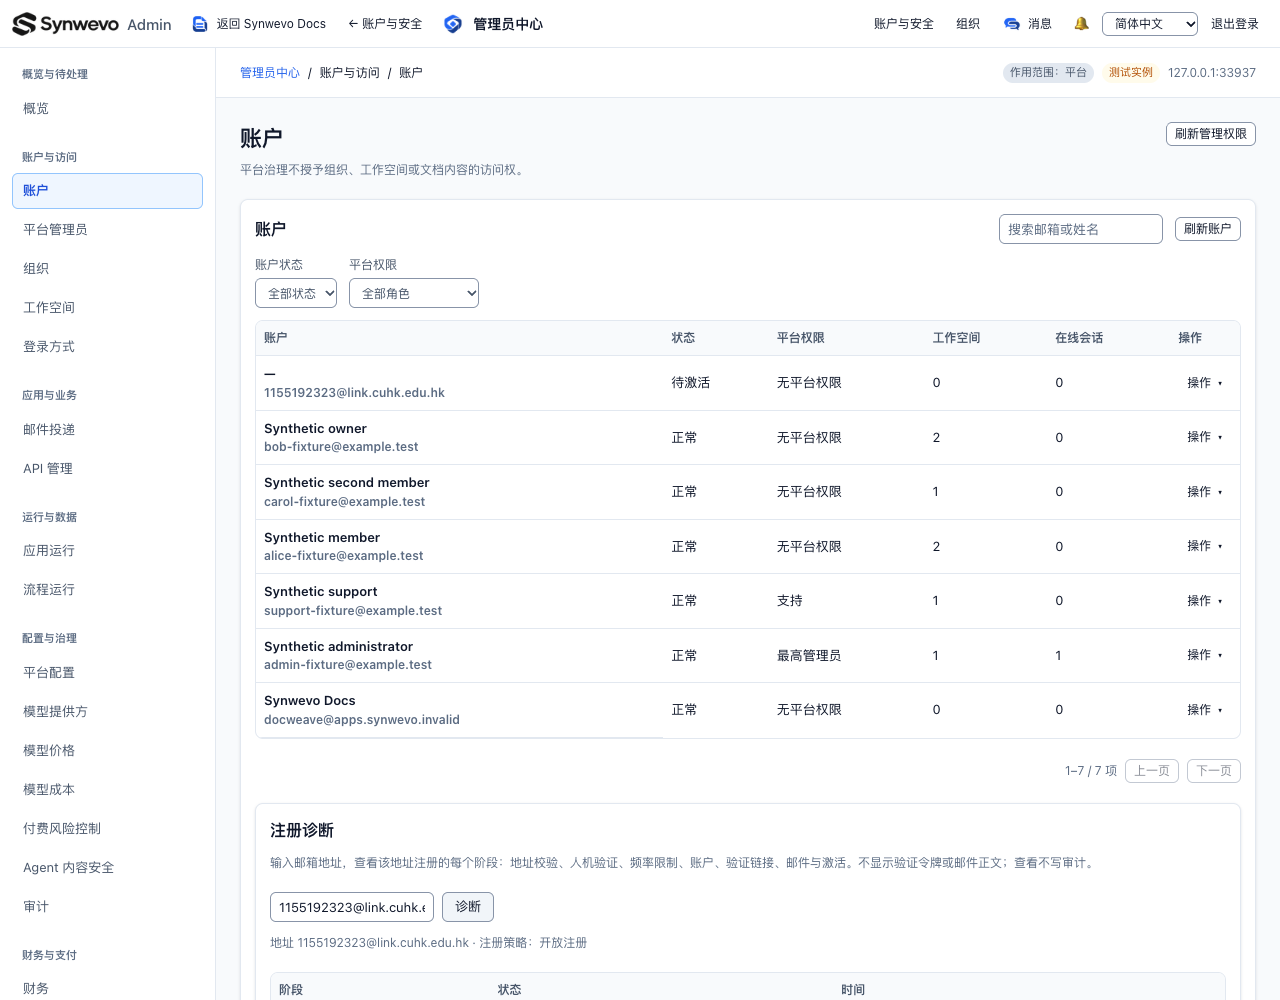
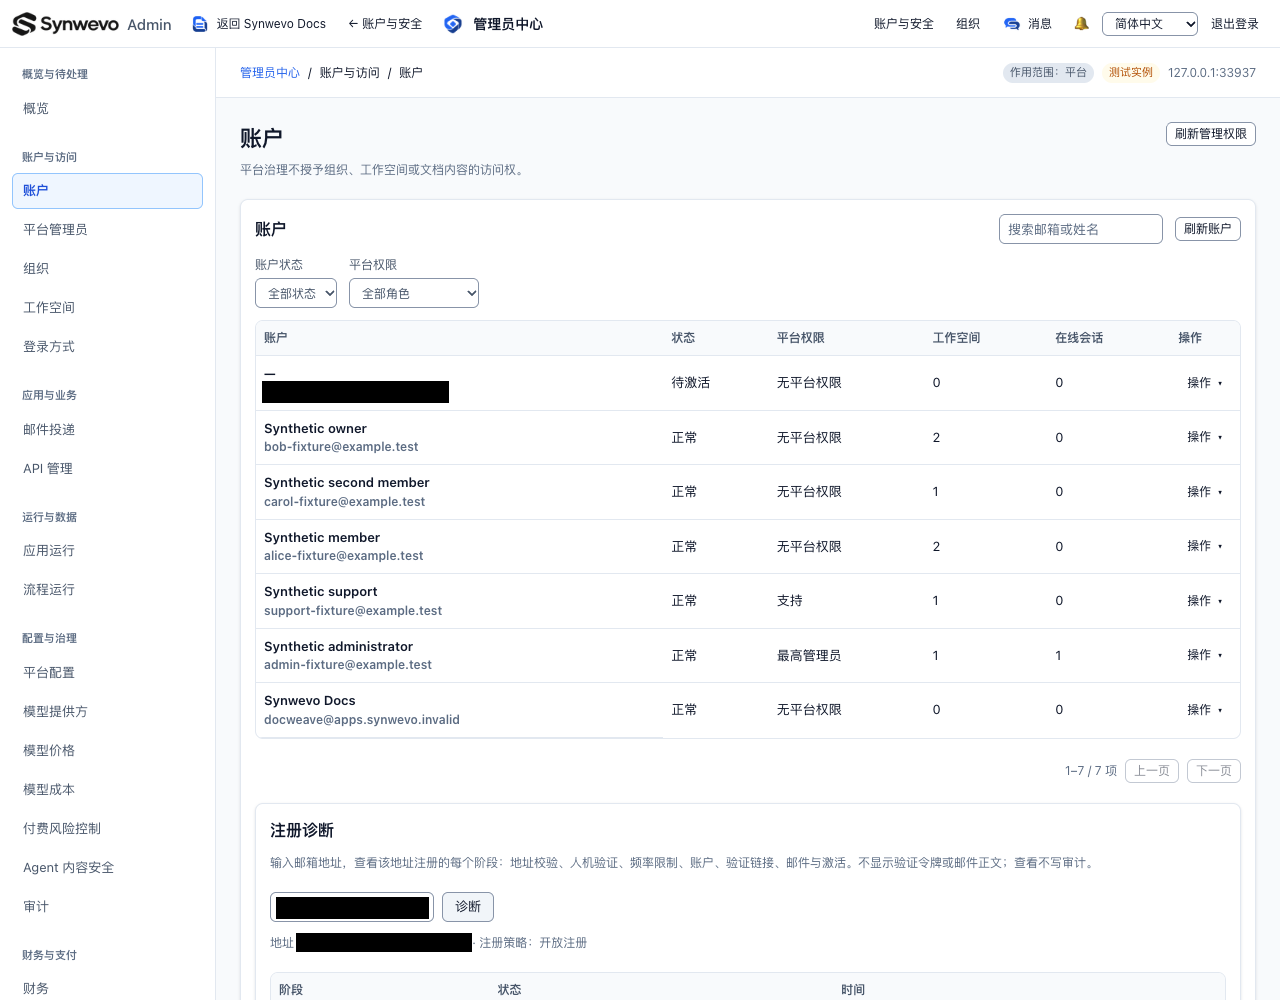
docs(evidence): paint over the institutional-format address in the A27 screenshots
The four registration-diagnostics screenshots showed a randomly generated
address in a real university's student-ID format; such a number can still
belong to a real student. Its three occurrences per image (the account row,
the diagnosis input, the diagnosis result line) are covered by opaque boxes;
nothing else in the images changed and nothing was recaptured. The folder's
new README says so and names the reserved domain to use next time.

Changed region(s): [[0.2188, 0.899, 0.375, 0.961], [0.1875, 0.372, 0.375, 0.403]]

diff --git a/docs/agent-work/evidence/2026-10-11-admin-registration-diagnostics/README.md b/docs/agent-work/evidence/2026-10-11-admin-registration-diagnostics/README.md
@@ -1,0 +1,9 @@
+# Admin A27 注册诊断证据（CR-097）
+
+`verification.json` 与 `browser-report.json` 记录 2026-10-11 在隔离合成实例（`127.0.0.1:33937`，邮件为 file 模式，
+没有外发）上的浏览器验收；四张 `a27-diagnosis-*.png` 是同一次运行的截图。
+
+**redacted 2026-10-25：** 截图里注册用的地址取了真实机构域名下的学号格式（`1155NNNNNN@link.cuhk.edu.hk`），
+随机生成的号码仍可能属于真实的人。四张截图中这个地址出现的三处（账户列表第一行、诊断输入框、诊断结果的
+「地址」行）已用不透明黑框覆盖；画面其余部分未改动，也没有重新截图。文本记录里该地址本来就只以
+`NNNNNNNNNN@…` 的掩码形式出现。今后的验收用保留域名（例如 `1155000000@link.example.test`，单元测试已在用）。
